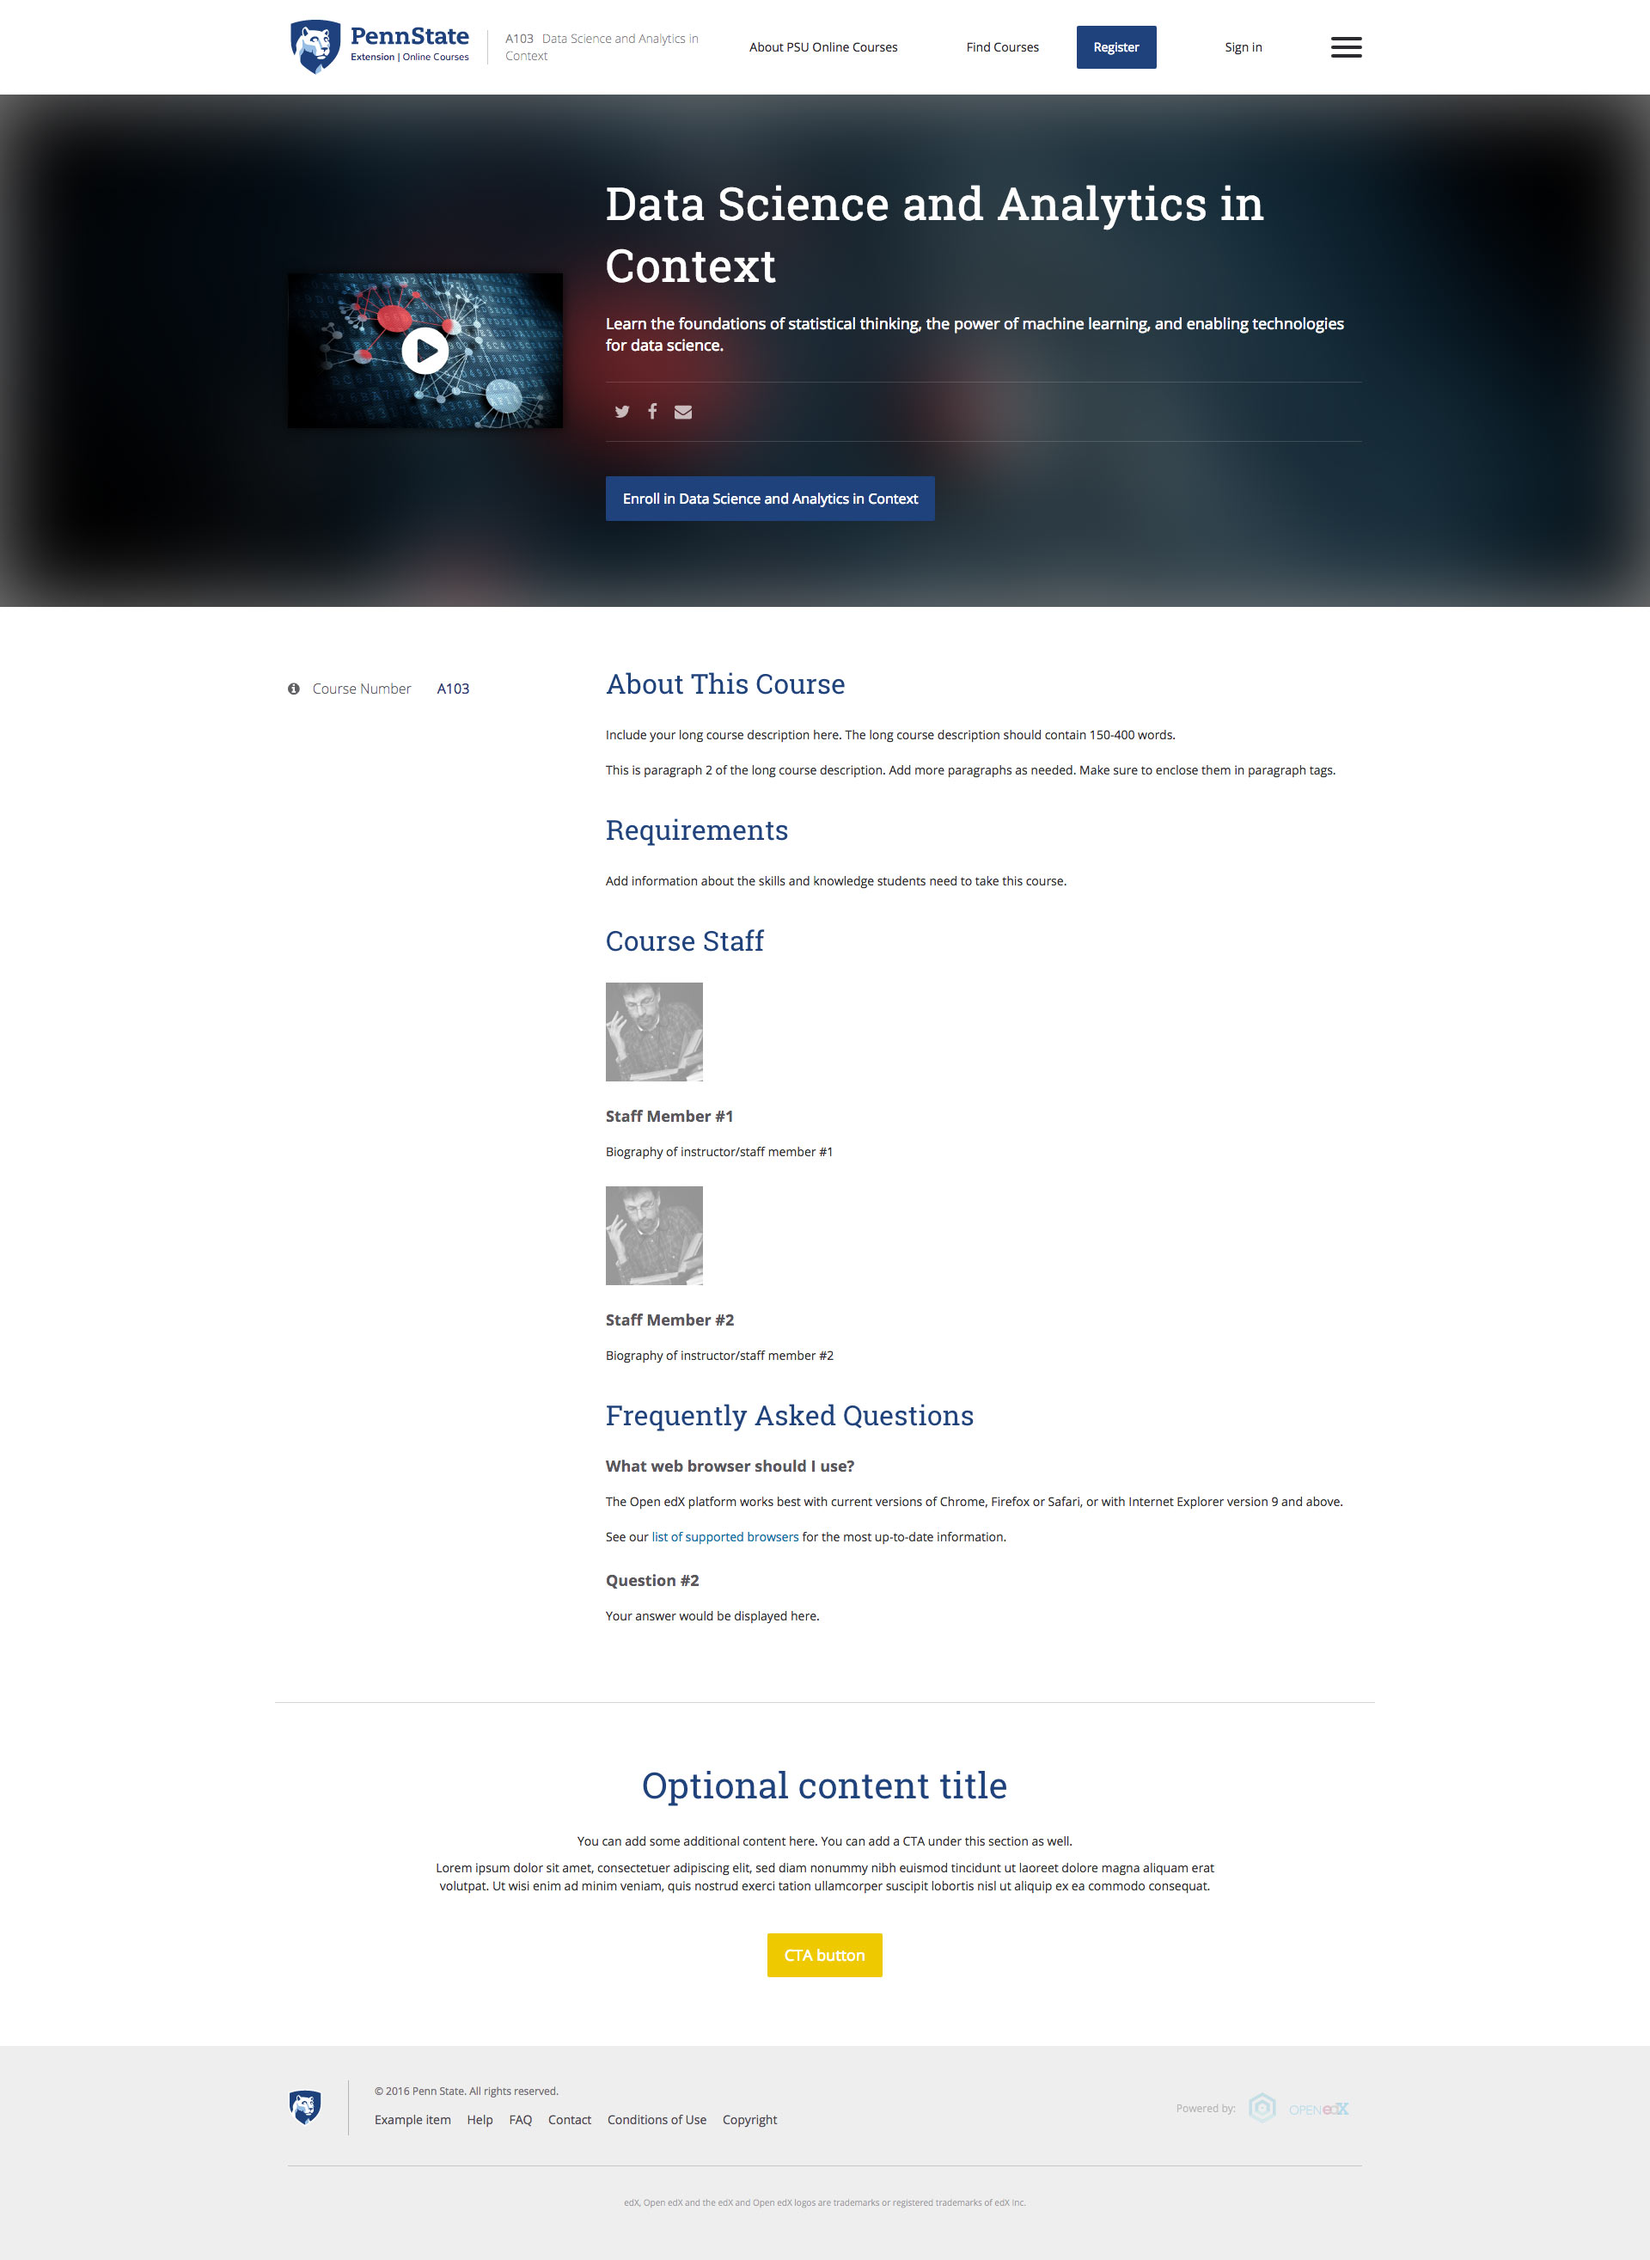
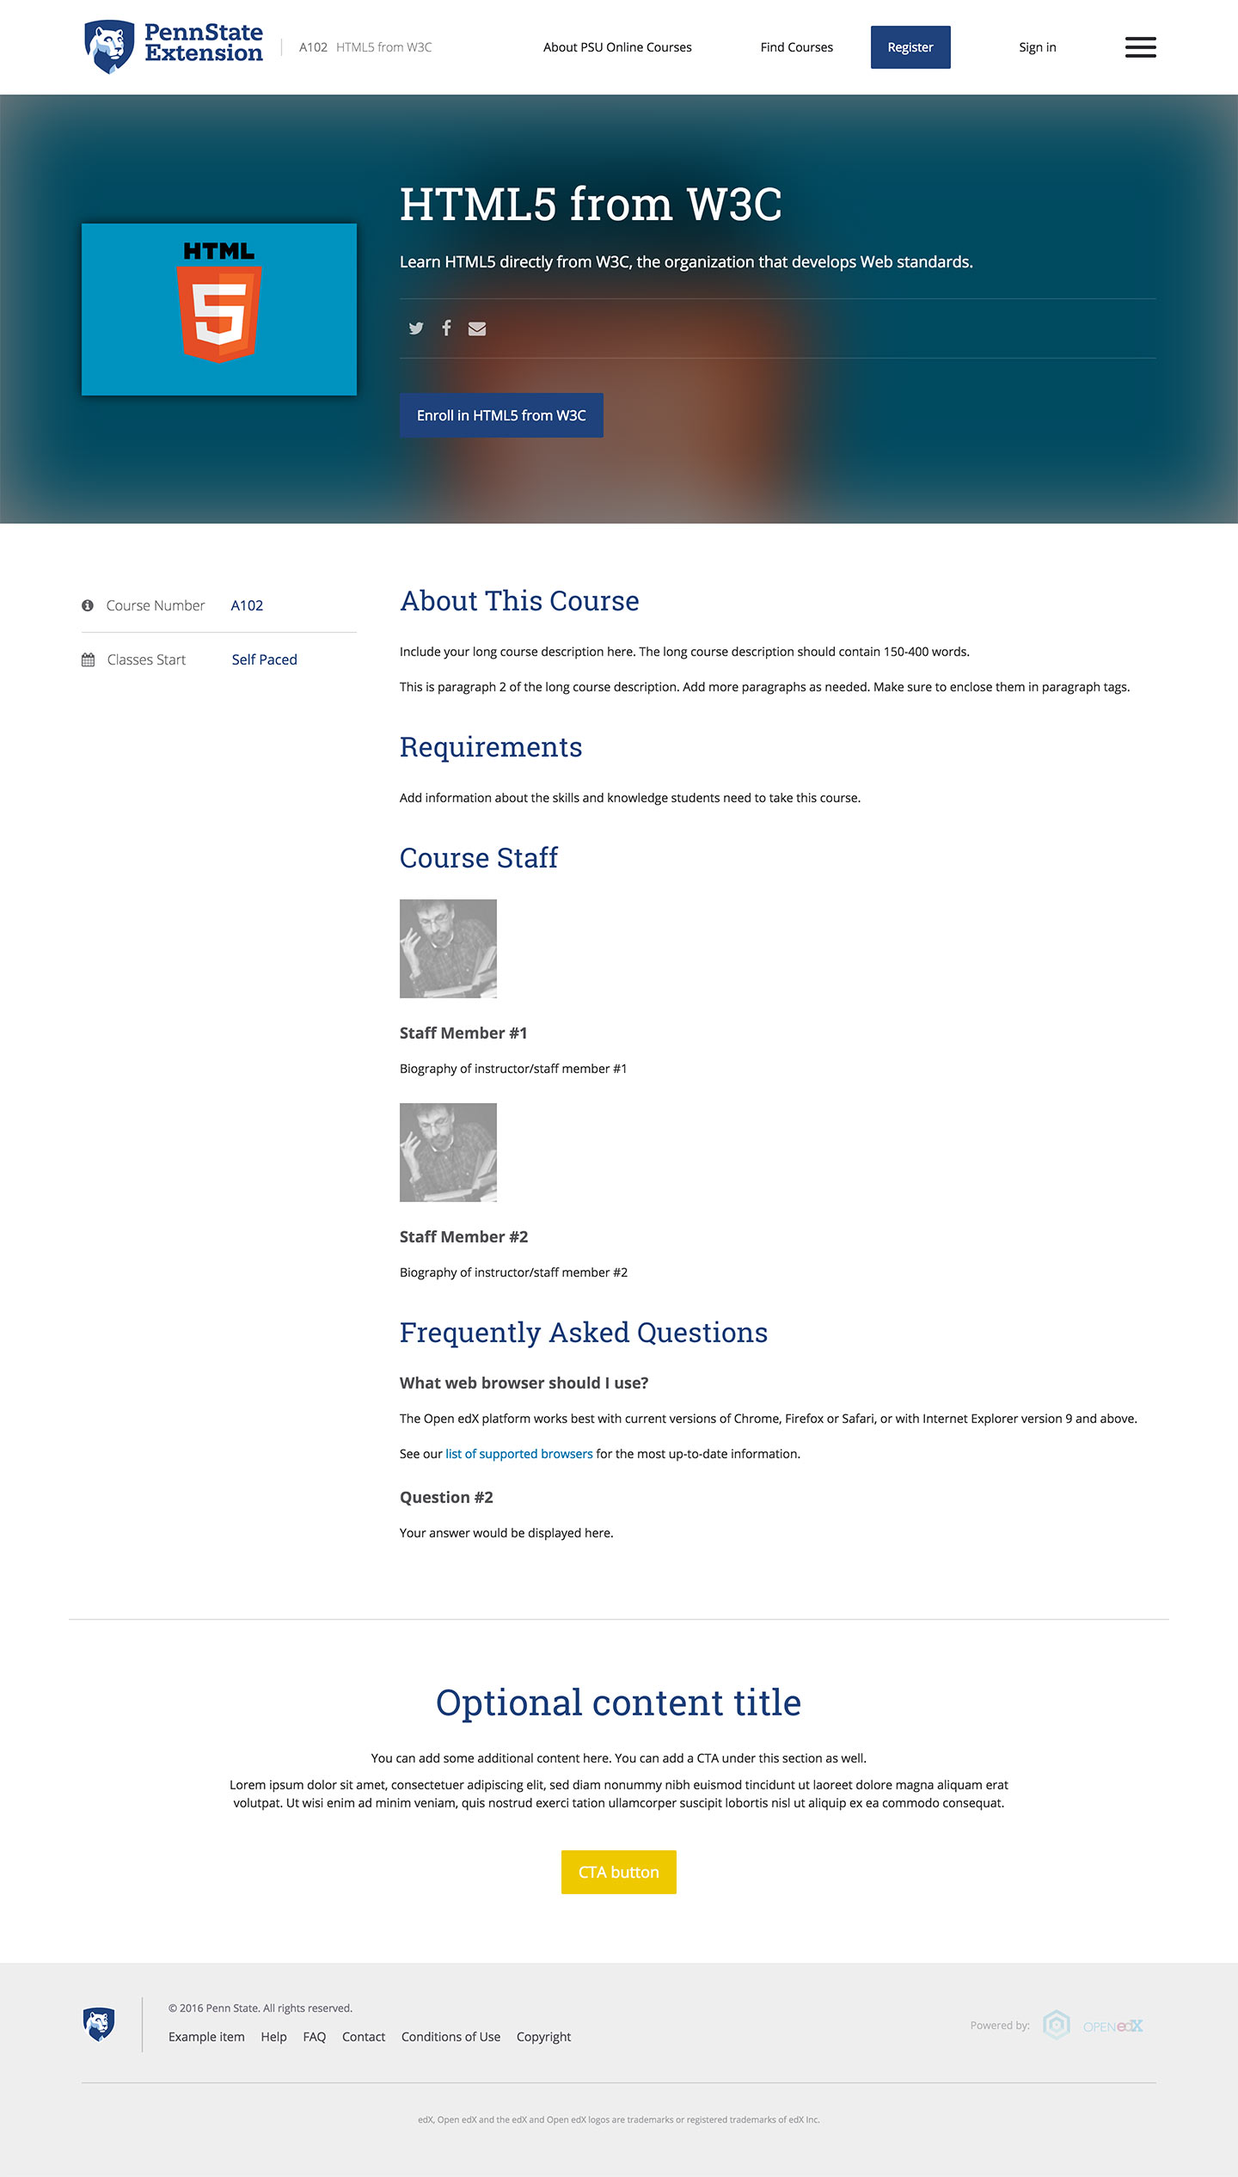
cosmetic updates per customer specs

diff --git a/templates/customer-specific/_psu-header-01.html b/templates/customer-specific/_psu-header-01.html
@@ -1,0 +1,65 @@
+<%page args="user_authenticated, user_name, theme_folder, logo_positive, logo_negative, logo_url, display_shopping_cart, shopping_cart_url, display_course_name, course_number, course_name, menu_items, slideout_menu_items" />
+## mako
+
+<!-- top navigation -->
+<section class="a--header-design-01 a--site-nav">
+  <div class="bs-container a--container a--site-nav__container">
+    <div class="a--site-nav__group-left">
+      <a href="${logo_url}" target="_blank" class="a--site-nav__logo__container a--site-nav__logo__positive">
+        <img class="a--site-nav__logo a--logo-full" src="${logo_positive}">
+      </a>
+      <a href="${logo_url}" target="_blank" class="a--site-nav__logo__container a--site-nav__logo__negative">
+        <img class="a--site-nav__logo a--logo-full" src="${logo_negative}">
+      </a>
+      % if display_course_name:
+      <div class="a--site-nav__course-name">
+        <span>${course_number}</span>${course_name}
+      </div>
+      % endif
+    </div>
+    <nav class="a--site-nav__group-right" id="site-menu">
+      <ul class="a--site-menu__container">
+        % for menu_group in menu_items:
+        <li class="a--site-menu__group">
+          <ul>
+            % for item in menu_group:
+            <li class="a--${item[2]}">
+              <a href="${item[1]}" ${item[3]}>${item[0]}</a>
+            </li>
+            % endfor
+          </ul>
+        </li>
+        % endfor
+        % if user_authenticated:
+        <li class="a--site-menu__group a--user-avatar">
+          Welcome, <span>${user_name}</span>.
+        </li>
+        % endif
+        <li class="a--site-menu__group a--slide-menu">
+          <button type="button" id="site-menu-toggle" class="a--button a--site-nav__mobile-toggle" aria-label="toggle menu">
+            <span class="a--toggle-bar"></span>
+            <span class="a--toggle-bar"></span>
+            <span class="a--toggle-bar"></span>
+            <span class="a--toggle-pulsar a--toggle-pulsar__1"></span>
+            <span class="a--toggle-pulsar a--toggle-pulsar__2"></span>
+          </button>
+          <ul class="a--slide-menu__container" id="slide-menu">
+            <% first_slideout_item = True %>
+            % for menu_group in slideout_menu_items:
+              % if not first_slideout_item and menu_group:
+                <li class="a--spacer"></li>
+              % endif
+              % for item in menu_group:
+                <li class="a--${item[2]}">
+                  <a href="${item[1]}">${item[0]}</a>
+                </li>
+              % endfor
+              <% first_slideout_item = False %>
+            % endfor
+          </ul>
+        </li>
+      </ul>
+    </nav>
+  </div>
+</section>
+		<!-- end of top navigation -->

diff --git a/templates/theme-variables.html b/templates/theme-variables.html
@@ -22,7 +22,7 @@
     'enable_registration_button' : True,
     'google_fonts_to_import' : 'https://fonts.googleapis.com/css?family=Open+Sans:300,300i,400,400i,700,700i,800|Roboto+Slab&subset=latin-ext',
     'apple_app_id' : '',
-    ##'header_logo_target' : ''
+    'header_logo_target' : 'http://extension.psu.edu/'
   }
   %>
 </%def>
@@ -48,7 +48,7 @@
 <%def name="get_header_footer_templates()">
   <%
   return {
-    'header_template' : 'header/_header-appsembler-01.html', ## required
+    'header_template' : '../customer-specific/_psu-header-01.html', ## required
     'footer_template' : 'footer/_footer-appsembler-01.html' ## required
   }
   %>
